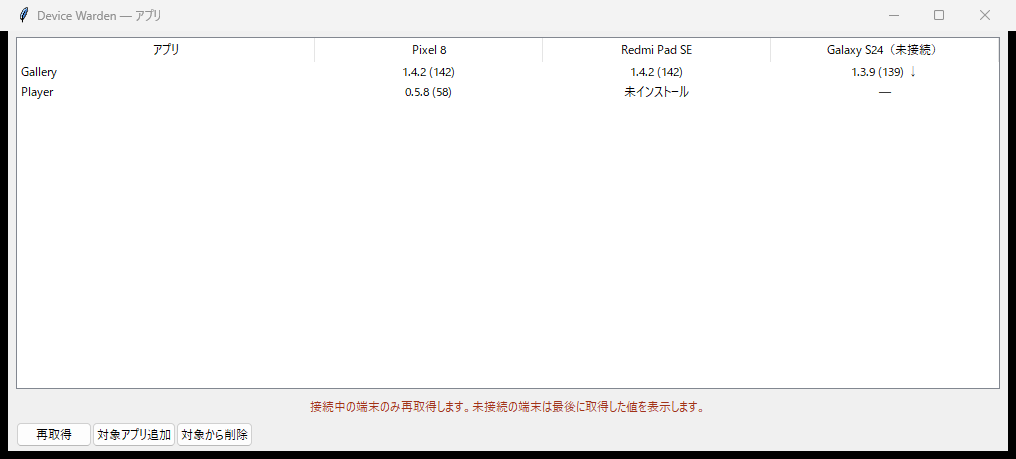
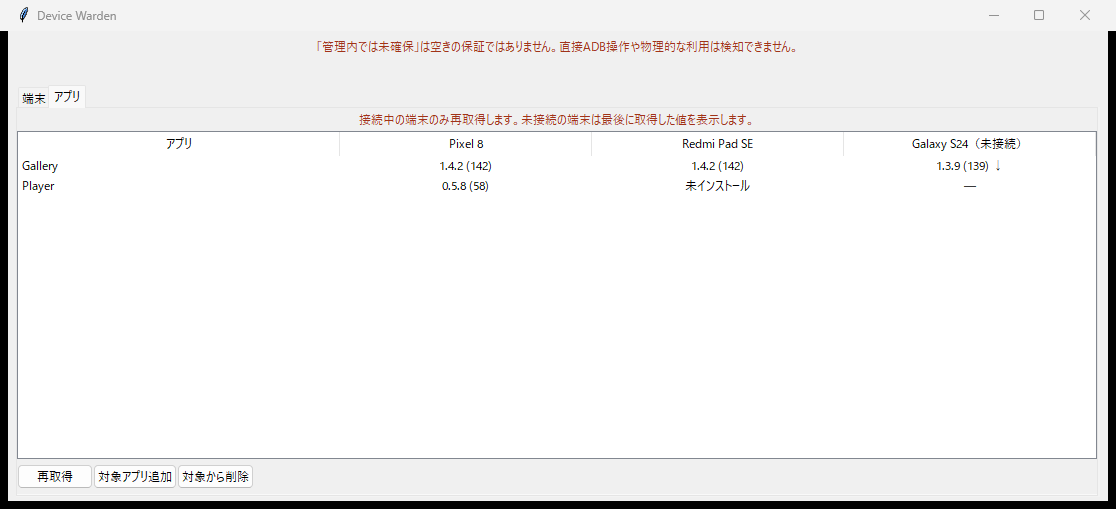
feat: show devices and apps as tabs in one window
Replaces the separate app window with a tab in the main window so availability and installed versions can be checked without switching windows.

diff --git a/device_warden/gui.py b/device_warden/gui.py
@@ -57,28 +57,48 @@ class App:
         ttk.Label(root, text='「管理内では未確保」は空きの保証ではありません。直接ADB操作や物理的な利用は検知できません。', foreground='#a03319').pack(pady=6)
         self.message = ttk.Label(root, text='')
         self.message.pack()
+        self.notebook = ttk.Notebook(root)
+        self.notebook.pack(fill='both', expand=True, padx=8, pady=4)
+        devices = ttk.Frame(self.notebook)
+        apps = ttk.Frame(self.notebook)
+        self.notebook.add(devices, text='端末')
+        self.notebook.add(apps, text='アプリ')
         columns = ('name', 'connection', 'status', 'owner', 'policy', 'seen')
-        self.tree = ttk.Treeview(root, columns=columns, show='headings', height=12)
+        self.tree = ttk.Treeview(devices, columns=columns, show='headings', height=12)
         for key, title, width in [('name','端末',180),('connection','ADB',110),('status','利用可否',200),('owner','確保者',240),('policy','AI',80),('seen','最終確認',150)]:
             self.tree.heading(key, text=title)
             self.tree.column(key, width=width)
-        self.tree.pack(fill='both', expand=True, padx=8)
-        bar = ttk.Frame(root)
+        self.tree.pack(fill='both', expand=True)
+        bar = ttk.Frame(devices)
         bar.pack(fill='x', pady=5)
         for label, fn in [('最新取得', self.refresh), ('自分が確保', self.claim), ('解放', self.release), ('強制解放', self.force), ('復旧', self.recover_lease), ('AI許可切替', self.policy), ('詳細', self.details)]:
             ttk.Button(bar, text=label, command=fn).pack(side='left')
-        bar = ttk.Frame(root)
+        bar = ttk.Frame(devices)
         bar.pack(fill='x', pady=5)
-        for label, fn in [('再確認', self.reconfirm), ('scrcpy', self.scrcpy), ('名前変更', self.rename), ('表示切替', self.toggle_hidden), ('削除', self.delete), ('新規端末のAI既定', self.default_policy), ('履歴', self.audit), ('自動起動', self.autostart), ('アプリ', self.open_apps)]:
+        for label, fn in [('再確認', self.reconfirm), ('scrcpy', self.scrcpy), ('名前変更', self.rename), ('表示切替', self.toggle_hidden), ('削除', self.delete), ('新規端末のAI既定', self.default_policy), ('履歴', self.audit), ('自動起動', self.autostart)]:
             ttk.Button(bar, text=label, command=fn).pack(side='left')
-        ttk.Checkbutton(root, text='非表示端末も表示', variable=self.hidden, command=self.load).pack()
+        ttk.Checkbutton(devices, text='非表示端末も表示', variable=self.hidden, command=self.load).pack()
+        ttk.Label(apps, text='接続中の端末のみ再取得します。未接続の端末は最後に取得した値を表示します。', foreground='#a03319').pack(pady=2)
+        self.apps_tree = ttk.Treeview(apps, columns=('app',), show='headings', height=12)
+        self.apps_tree.heading('app', text='アプリ')
+        self.apps_tree.column('app', width=240)
+        self.apps_tree.pack(fill='both', expand=True)
+        app_bar = ttk.Frame(apps)
+        app_bar.pack(fill='x', pady=5)
+        ttk.Button(app_bar, text='再取得', command=self.scan_apps).pack(side='left')
+        ttk.Button(app_bar, text='対象アプリ追加', command=self.track_app).pack(side='left')
+        ttk.Button(app_bar, text='対象から削除', command=self.untrack_app).pack(side='left')
         root.protocol('WM_DELETE_WINDOW', root.withdraw)
-        self.apps_window = None
+        self.apps_devices = []
         self.load()
+        self.refresh_apps()
+        self.tick()
         self.tick()
 
     def tick(self):
         self.load()
+        if self.notebook.index('current') == 1:
+            self.refresh_apps()
         self.root.after(10000, self.tick)
 
     def run(self, action, **args):
@@ -149,41 +169,12 @@ class App:
             self.run('force-release', acknowledge=True, device_id=d['id'])
             self.load()
 
-    def open_apps(self):
-        """Open the app/version matrix in its own window.
-
-        The matrix is wider than the device list, and mixing it into the device
-        tree would make the availability view harder to scan.
-        """
-        if self.apps_window and tk.Toplevel.winfo_exists(self.apps_window):
-            self.apps_window.lift()
-            return
-        window = tk.Toplevel(self.root)
-        window.title('Device Warden — アプリ')
-        window.geometry('980x520')
-        self.apps_window = window
-        frame = ttk.Frame(window)
-        frame.pack(fill='both', expand=True, padx=8, pady=6)
-        note = ttk.Label(window, text='接続中の端末のみ再取得します。未接続の端末は最後に取得した値を表示します。',
-                         foreground='#a03319')
-        note.pack(pady=2)
-        columns = ('app',)
-        tree = ttk.Treeview(frame, columns=columns, show='headings', height=14)
-        tree.heading('app', text='アプリ')
-        tree.column('app', width=240)
-        tree.pack(fill='both', expand=True, side='left')
-        bar = ttk.Frame(window)
-        bar.pack(fill='x', padx=8, pady=4)
-        ttk.Button(bar, text='再取得', command=lambda: self.scan_apps(tree)).pack(side='left')
-        ttk.Button(bar, text='対象アプリ追加', command=lambda: self.track_app(tree)).pack(side='left')
-        ttk.Button(bar, text='対象から削除', command=lambda: self.untrack_app(tree)).pack(side='left')
-        self.scan_apps(tree)
-
-    def scan_apps(self, tree):
+    def scan_apps(self):
         self.run('apps-scan')
-        self.refresh_apps(tree)
+        self.refresh_apps()
 
-    def refresh_apps(self, tree):
+    def refresh_apps(self):
+        tree = self.apps_tree
         matrix = self.run('apps-matrix')
         if matrix is None:
             return
@@ -222,20 +213,20 @@ class App:
         if not matrix['apps']:
             self.message.config(text='対象アプリが未登録です。「対象アプリ追加」からパッケージを登録してください。')
 
-    def track_app(self, tree):
-        package = simpledialog.askstring('対象アプリ', 'パッケージ名（例: com.example.app）', parent=tree)
+    def track_app(self):
+        package = simpledialog.askstring('対象アプリ', 'パッケージ名（例: com.example.app）', parent=self.root)
         if package:
-            label = simpledialog.askstring('対象アプリ', '表示名（任意）', parent=tree)
+            label = simpledialog.askstring('対象アプリ', '表示名（任意）', parent=self.root)
             self.run('apps-track', package=package.strip(), label=(label or '').strip() or None)
-            self.scan_apps(tree)
+            self.scan_apps()
 
-    def untrack_app(self, tree):
-        selected = tree.selection()
+    def untrack_app(self):
+        selected = self.apps_tree.selection()
         if not selected:
             messagebox.showinfo('対象アプリ', '削除するアプリを選択してください。')
             return
         self.run('apps-untrack', package=selected[0])
-        self.refresh_apps(tree)
+        self.refresh_apps()
 
     def reconfirm(self):
         d = self.require_selection()

diff --git a/scripts/capture-apps-screenshot.py b/scripts/capture-apps-screenshot.py
@@ -46,7 +46,12 @@ def fake_run(action, **kwargs):
     if action in ('apps-matrix', 'apps-scan'):
         return MATRIX
     if action == 'list':
-        return []
+        # Keep the device tab populated so the empty-state message does not show.
+        return [{'id': device['id'], 'display_name': device['display_name'],
+                 'connection': device['connection'], 'transport': 'usb',
+                 'kind': None, 'tool': None, 'title': None, 'session_id': None,
+                 'lease_state': None, 'ai_allowed': 1, 'hidden': 0, 'last_seen': NOW}
+                for device in DEVICES]
     return None
 
 
@@ -87,15 +92,13 @@ def main():
     import device_warden.gui as gui
     gui.call = fake_run
     root = tk.Tk()
-    root.withdraw()
     app = App(root)
-    app.open_apps()
-    window = app.apps_window
-    window.geometry('1000x420+120+120')
-    window.update()
+    root.geometry('1100x470+120+120')
+    root.update()
+    app.notebook.select(1)
     root.update()
     target = Path(__file__).resolve().parent.parent / 'docs' / 'apps-screenshot.png'
-    grab(int(window.wm_frame(), 16)).save(target)
+    grab(int(root.wm_frame(), 16)).save(target)
     root.destroy()
     print(f'wrote {target}')
 

diff --git a/README.md b/README.md
@@ -204,7 +204,7 @@ Windowsの継承ACLや別ユーザーからのアクセスに関する注意は 
 
 ## アプリとバージョンの管理
 
-端末ごとに、開発中アプリのインストール状況とバージョンを一覧できます。行がアプリ、列が端末で、セルには `versionName (versionCode)`、未インストール、未取得などが入ります。
+端末ごとに、開発中アプリのインストール状況とバージョンを一覧できます。同じウィンドウの「アプリ」タブに切り替えると表示され、行がアプリ、列が端末で、セルには `versionName (versionCode)`、未インストール、未取得などが入ります。
 
 <p align="center">
   <img src="docs/apps-screenshot.png" alt="アプリとバージョンのマトリクス" width="900">
